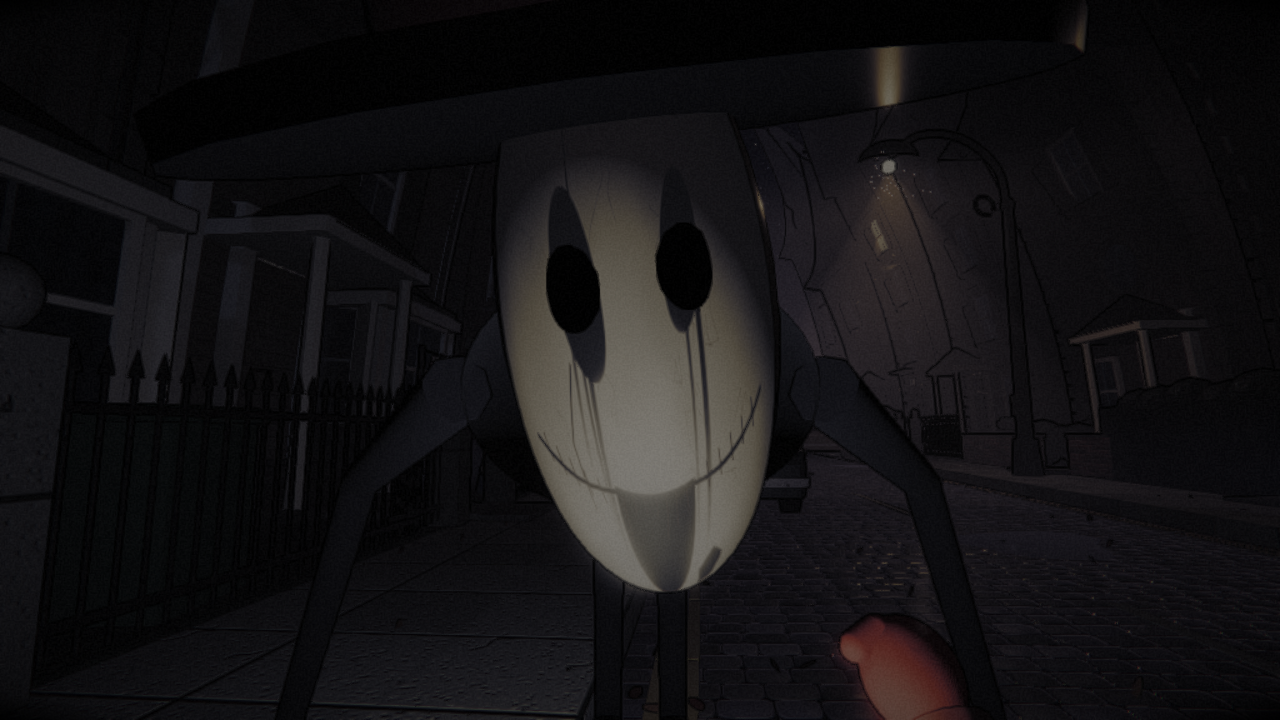
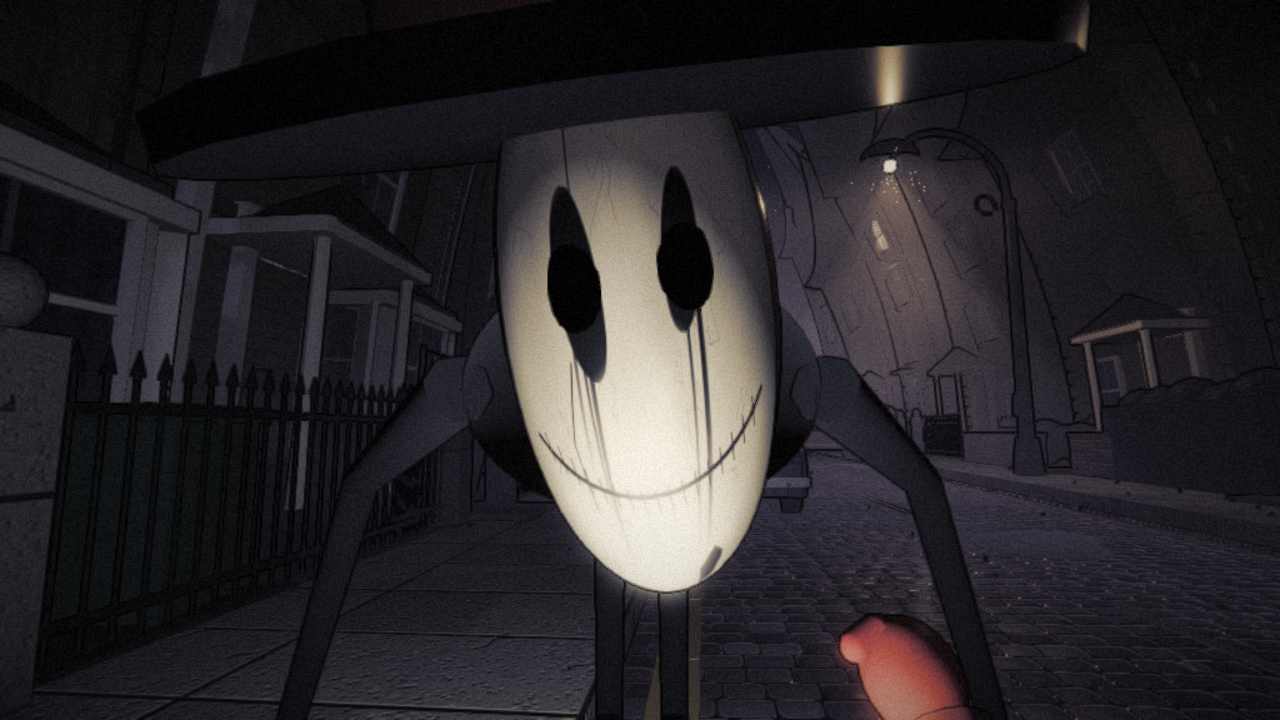
The Long Way Home: the catch holds his face on you for a second before the dark (then the mouth tears open); more hero frames

diff --git a/walkhome/src/main.js b/walkhome/src/main.js
@@ -241,9 +241,10 @@ function frame(now) {
   // caught: the screen goes, and you wake under the last lamp you passed
   if (caughtT < 0 && events.some((e) => e.name === 'caught' && e.id > seenCaught)) { caughtT = 0; tall.catching = true; ectx.catchYaw = Math.atan2(-(tall.x - player.x), -(tall.z - player.z)); }
   seenCaught = evId;
-  if (caughtT >= 0 && caughtT < 1.1) {
+  // (timeline: he folds down over you in 0.45 s, holds his face there a second, the mouth tears open, black)
+  if (caughtT >= 0 && caughtT < 1.75) {
     // you're turned round to him; he folds down over you, his face right in front of yours, lit for a moment
-    const k = Math.min(1, caughtT / 0.55);
+    const k = Math.min(1, caughtT / 0.45) * (caughtT > 1.0 ? 1 : 0.85 + 0.15 * Math.min(1, caughtT / 0.45));
     let d = ectx.catchYaw - player.yaw; while (d > Math.PI) d -= Math.PI * 2; while (d < -Math.PI) d += Math.PI * 2;
     player.yaw += d * Math.min(1, dt * 14); player.pitch += (0.12 - player.pitch) * Math.min(1, dt * 10);
     const fx = -Math.sin(ectx.catchYaw), fz = -Math.cos(ectx.catchYaw);
@@ -253,8 +254,8 @@ function frame(now) {
     ectx.catchLight.pos.set(player.x + fx * 0.35, player.y + 0.72, player.z + fz * 0.35); ectx.catchLight.power = 2.0 + Math.random() * 0.6; // from below, like a torch under a chin
     shake = Math.max(shake, 0.5);
   }
-  if (caughtT >= 0) { caughtT += dt; black = caughtT < 0.75 ? 0 : Math.min(1, (caughtT - 0.75) * 5);
-    if (caughtT > 1.0 && ectx.catchLight) { extraLights.splice(extraLights.indexOf(ectx.catchLight), 1); ectx.catchLight = null; tall.catching = false; tallView.stoop(0); } if (caughtT > 2.6 && caughtT - dt <= 2.6) respawn(director, player, tall, dog, emit); if (caughtT > 2.6) black = Math.max(0, 1 - (caughtT - 2.6) / 2.5); if (caughtT > 5.1) caughtT = -1; }
+  if (caughtT >= 0) { caughtT += dt; black = caughtT < 1.45 ? 0 : Math.min(1, (caughtT - 1.45) * 6);
+    if (caughtT > 1.7 && ectx.catchLight) { extraLights.splice(extraLights.indexOf(ectx.catchLight), 1); ectx.catchLight = null; tall.catching = false; tallView.stoop(0); } if (caughtT > 3.2 && caughtT - dt <= 3.2) respawn(director, player, tall, dog, emit); if (caughtT > 3.2) black = Math.max(0, 1 - (caughtT - 3.2) / 2.5); if (caughtT > 5.7) caughtT = -1; }
   if (!(intro.t >= 0 && intro.t < 2.2)) post.U.uBlack.value = black;
   post.U.uHide.value += ((hiddenNow ? 1 : 0) - post.U.uHide.value) * Math.min(1, dt * 3);
   // your eyes: heavy when you've held him too long, then a blink (and he's nearer)

diff --git a/walkhome/src/render/tallman.js b/walkhome/src/render/tallman.js
@@ -141,7 +141,7 @@ export class TallManView {
   // the catch: he folds down over you until his face is level with yours
   stoop(k) {
     // and the mouth comes open
-    const want = k > 0.72 ? this.faceOpen : this.faceShut; if (this.porcelain.map !== want) { this.porcelain.map = want; this.porcelain.emissiveMap = want; this.porcelain.needsUpdate = true; }
+    const want = k > 0.99 && (this.openT = (this.openT || 0) + 1) > 30 ? this.faceOpen : this.faceShut; if (k < 0.99) this.openT = 0; /* (the mouth comes open after he's held you a moment) */ if (this.porcelain.map !== want) { this.porcelain.map = want; this.porcelain.emissiveMap = want; this.porcelain.needsUpdate = true; }
     this.porcelain.roughness = 0.28 + k * 0.4; this.porcelain.emissive.setHex(k > 0 ? 0x5a5448 : 0x2a2620);
     // fold at the hips (pivot 1.3 m up): the torso goes over toward you until the face is level with yours
     const a = -k * 1.78, h = 1.3;

diff --git a/walkhome/tools/scenario.py b/walkhome/tools/scenario.py
@@ -97,6 +97,10 @@ SCEN = {
     ("js", "(() => { const T = __wh.tall; __wh.put(T.s + 4, T.l + 0.3, 0, 0); })()"), ("wait", 1.0), ("lookat", "{x: __wh.tall.x, y: 2.7, z: __wh.tall.z}"), ("wait", 0.8), ("shot", "b_4m"),
     ("js", "(() => { const T = __wh.tall; __wh.lampState.forEach(l => { if (Math.abs(l.s - T.s) < 30) l.on = 0; }); })()"), ("wait", 1.0), ("shot", "c_dark"),
   ],
+  "catchface": [
+    ("js", "__wh.put(352, 2.4, 0, -0.05); __wh.deck.nextS = 99999; __wh.director.nextVisit = 99999; __wh.director.glimpse = 'done'; __wh.director.nextOmen = 99999"), ("wait", 2),
+    ("js", "(() => { const T = __wh.tall, P = __wh.player; T.active = true; T.mode = 'hunt'; T.knows = 1; T.x = P.x + 0.3; T.z = P.z + 2.2; T.y = P.y; })()"),
+    ("wait", 0.3), ("shot", "f1"), ("wait", 0.12), ("shot", "f2"), ("wait", 0.12), ("shot", "f3"), ("wait", 0.12), ("shot", "f4"), ("wait", 0.12), ("shot", "f5")],
   "catch": [
     ("js", "__wh.put(352, 2.4, 0, -0.05); __wh.deck.nextS = 99999; __wh.director.nextVisit = 99999; __wh.director.glimpse = 'done'"), ("wait", 2),
     ("js", "(() => { const T = __wh.tall, P = __wh.player; T.active = true; T.mode = 'hunt'; T.knows = 1; T.x = P.x + 0.3; T.z = P.z + 2.2; T.y = P.y; })()"),
